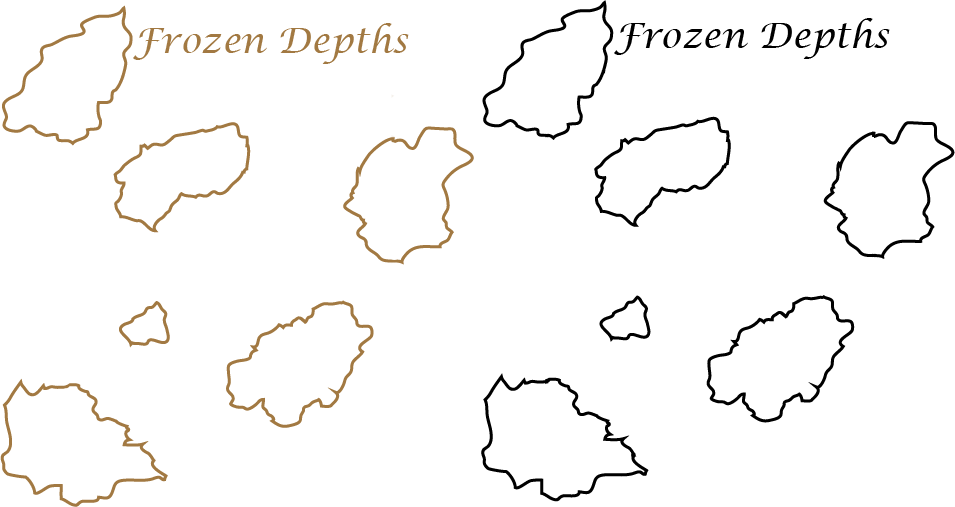
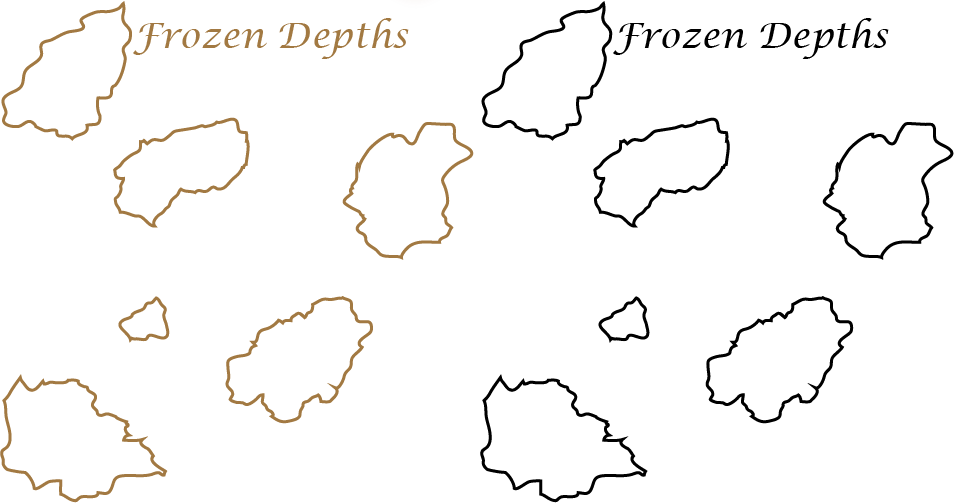
Added phase button
Fixed the frozen depths moving slightly on mouse over. Changed the
panning to only pan on the edge 50pixels.  Added the end phase buttons
and made the if statements for what to do onMouseDown and onMouseOver
ready for ryan to get it to work with the current phase.

diff --git a/HAPI_APP/src/BattleGUI.cpp b/HAPI_APP/src/BattleGUI.cpp
@@ -17,18 +17,20 @@ BattleGUI::BattleGUI()
 	m_CompassPointer(HAPI_Sprites.MakeSprite(Textures::m_CompassPointer)),
 	m_CompassBackGround(HAPI_Sprites.MakeSprite(Textures::m_CompassBackGround)),
 	m_currentBattleWindow(BattleWindow::eCombat),
-	m_maxCameraOffset(0, 0)
+	m_maxCameraOffset(0, 0),
+	m_endPhaseButtons(HAPI_Sprites.MakeSprite(Textures::m_endPhaseButtons))
 {	
 	GameEventMessenger::getInstance().subscribe(std::bind(&BattleGUI::onReset, this), "BattleGUI", GameEvent::eResetBattle);
 	m_battleIcons->GetTransformComp().SetPosition({ 510, 890 });
-	m_pauseButton->GetTransformComp().SetPosition({ 1650, 140 });
+	m_endPhaseButtons->GetTransformComp().SetPosition({ 0, 968 });
+	m_pauseButton->GetTransformComp().SetPosition({ 1790, 30 });
 	m_chickenButton->GetTransformComp().SetPosition({ 1610, 840 });
 	m_CompassBackGround->GetTransformComp().SetOriginToCentreOfFrame();
-	m_CompassBackGround->GetTransformComp().SetPosition({ 240, 170 });
+	m_CompassBackGround->GetTransformComp().SetPosition({ 100, 100 });
 	m_CompassPointer->GetTransformComp().SetOrigin({ 21.5f,60 });
-	m_CompassPointer->GetTransformComp().SetPosition({ 240, 170 });
+	m_CompassPointer->GetTransformComp().SetPosition({ 100, 100 });
 	m_activeFactionToken->GetTransformComp().SetOriginToCentreOfFrame();
-	m_activeFactionToken->GetTransformComp().SetPosition({ 1510,140 });// position just temp can be adjusted as needed
+	m_activeFactionToken->GetTransformComp().SetPosition({ 1690, 55 });
 
 	//pauseMenu
 	m_resumeButton->GetTransformComp().SetPosition({ 818, 387 });
@@ -56,7 +58,7 @@ void BattleGUI::render() const
 	m_CompassBackGround->Render(SCREEN_SURFACE);
 	m_CompassPointer->Render(SCREEN_SURFACE);
 	m_activeFactionToken->Render(SCREEN_SURFACE);
-
+	m_endPhaseButtons->Render(SCREEN_SURFACE);
 
 	switch (m_currentBattleWindow)
 	{
@@ -179,8 +181,9 @@ void BattleGUI::OnMouseLeftClick(const HAPI_TMouseData& mouseData)
 		{
 			m_currentBattleWindow = BattleWindow::ePause;//enables the pause menu
 		}
-					if (m_chickenButton->GetSpritesheet()->GetFrameRect(0).Translated(
-						m_chickenButton->GetTransformComp().GetPosition()).Contains(HAPISPACE::RectangleI(mouseData.x, mouseData.x, mouseData.y, mouseData.y)))//if you press the pause button
+
+		if (m_chickenButton->GetSpritesheet()->GetFrameRect(0).Translated(
+			m_chickenButton->GetTransformComp().GetPosition()).Contains(HAPISPACE::RectangleI(mouseData.x, mouseData.x, mouseData.y, mouseData.y)))//if you press the pause button
 		{
 			animationStartTime = HAPI_Sprites.GetTime();
 			shipSelected = true;
@@ -190,6 +193,20 @@ void BattleGUI::OnMouseLeftClick(const HAPI_TMouseData& mouseData)
 		{
 			shipSelected = false;
 		}
+
+		// ryan phase button stuff is here
+		/*if (m_endPhaseButtons->GetSpritesheet()->GetFrameRect(0).Translated(
+			m_endPhaseButtons->GetTransformComp().GetPosition()).Contains(HAPISPACE::RectangleI(mouseData.x, mouseData.x, mouseData.y, mouseData.y)))
+		{
+			if (current phase is movement)
+			{
+			end movement phase
+			}
+			else if (current phase is attack)
+			{
+				end attack phase
+			}
+		}*/
 		break;
 	}
 	case BattleWindow::ePause:
@@ -235,24 +252,49 @@ void BattleGUI::OnMouseMove(const HAPI_TMouseData& mouseData)
 		}
 
 
+		// ryan the phase button stuff is here
+		//if (m_endPhaseButtons->GetSpritesheet()->GetFrameRect(0).Translated(m_endPhaseButtons->GetTransformComp().GetPosition()).Contains(HAPISPACE::RectangleI(mouseData.x, mouseData.x, mouseData.y, mouseData.y)))//checks if mouse is over the phase button
+		//{
+		//	if (current phase is movement)
+		//	{
+		//		m_endPhaseButtons->SetFrameNumber(1);
+		//	}
+		//	else if (current phase is attack)
+		//	{
+		//		m_endPhaseButtons->SetFrameNumber(3);
+		//	}
+		//}
+		//else if (m_endPhaseButtons->GetFrameNumber() != 0 && m_endPhaseButtons->GetFrameNumber() != 2)//checks if the mouse is no longer over the phase button
+		//{
+		//	if (current phase is movement)
+		//	{
+		//		m_endPhaseButtons->SetFrameNumber(0);
+		//	}
+		//	else if (current phase is attack)
+		//	{
+		//		m_endPhaseButtons->SetFrameNumber(2);
+		//	}
+		//}
+
+
 		//moves the sprites when the mouse is on the edge of the screen
 		//only checks when mouse moves. if mouse doesnt move, it knows its still in the same spot and will keep scrolling without checking
 		pendingCameraMovement = VectorF{ 0,0 };
 
-		if (mouseData.x < 100)
+		if (mouseData.x < 50)
 		{
 			pendingCameraMovement += VectorF{ -1,0 };
 		}
-		else if (mouseData.x > 1500)
+		else if (mouseData.x > 1870)
 		{
 			pendingCameraMovement += VectorF{ 1,0 };
 		}
 
-		if (mouseData.y < 100)
+		if (mouseData.y < 50)
 		{
 			pendingCameraMovement += VectorF{ 0,-1 };
 		}
-		else if (mouseData.y > 800)
+		else if (mouseData.y > 1030)
 		{
 			pendingCameraMovement += VectorF{ 0,1 };
 		}

diff --git a/HAPI_APP/src/Textures.h b/HAPI_APP/src/Textures.h
@@ -162,6 +162,13 @@ struct Textures
 			return false;
 		}
 
+		m_endPhaseButtons = HAPI_Wrapper::makeSpriteSheet("endPhaseButtons.png", 4);
+		if (!m_endPhaseButtons)
+		{
+			HAPI_Sprites.UserMessage("Cannot Load : 'endPhaseButtons.png'", "Texture Error");
+			return false;
+		}
+
 		m_pauseButton = HAPI_Wrapper::makeSpriteSheet("pauseButton.png",2);
 		if (!m_pauseButton)
 		{
@@ -391,6 +398,7 @@ struct Textures
 	static std::shared_ptr<SpriteSheet> m_spawnHex;
 	static std::shared_ptr<SpriteSheet> m_selectedHex;
 	static std::shared_ptr<SpriteSheet> m_battleIcons;
+	static std::shared_ptr<SpriteSheet> m_endPhaseButtons;
 	static std::shared_ptr<SpriteSheet> m_pauseButton;
 	static std::shared_ptr<SpriteSheet> m_chickenButton;
 	static std::shared_ptr<SpriteSheet> m_pauseMenuBackground;

diff --git a/HAPI_APP/src/Textures.cpp b/HAPI_APP/src/Textures.cpp
@@ -24,6 +24,7 @@ std::shared_ptr<SpriteSheet> Textures::m_nightHexTiles;
 std::shared_ptr<SpriteSheet> Textures::m_spawnHex;
 std::shared_ptr<SpriteSheet> Textures::m_selectedHex;
 std::shared_ptr<SpriteSheet> Textures::m_battleIcons;
+std::shared_ptr<SpriteSheet> Textures::m_endPhaseButtons;
 std::shared_ptr<SpriteSheet> Textures::m_pauseButton;
 std::shared_ptr<SpriteSheet> Textures::m_chickenButton;
 std::shared_ptr<SpriteSheet> Textures::m_pauseMenuBackground;

diff --git a/HAPI_APP/src/BattleGUI.h b/HAPI_APP/src/BattleGUI.h
@@ -48,7 +48,8 @@ private:
 	std::unique_ptr<Sprite> m_activeFactionToken;
 	std::unique_ptr<Sprite> m_CompassPointer;
 	std::unique_ptr<Sprite> m_CompassBackGround;
-	
+	std::unique_ptr<Sprite> m_endPhaseButtons;
+
 	DWORD animationStartTime;
 	bool shipSelected;
 	bool playAnimation;
